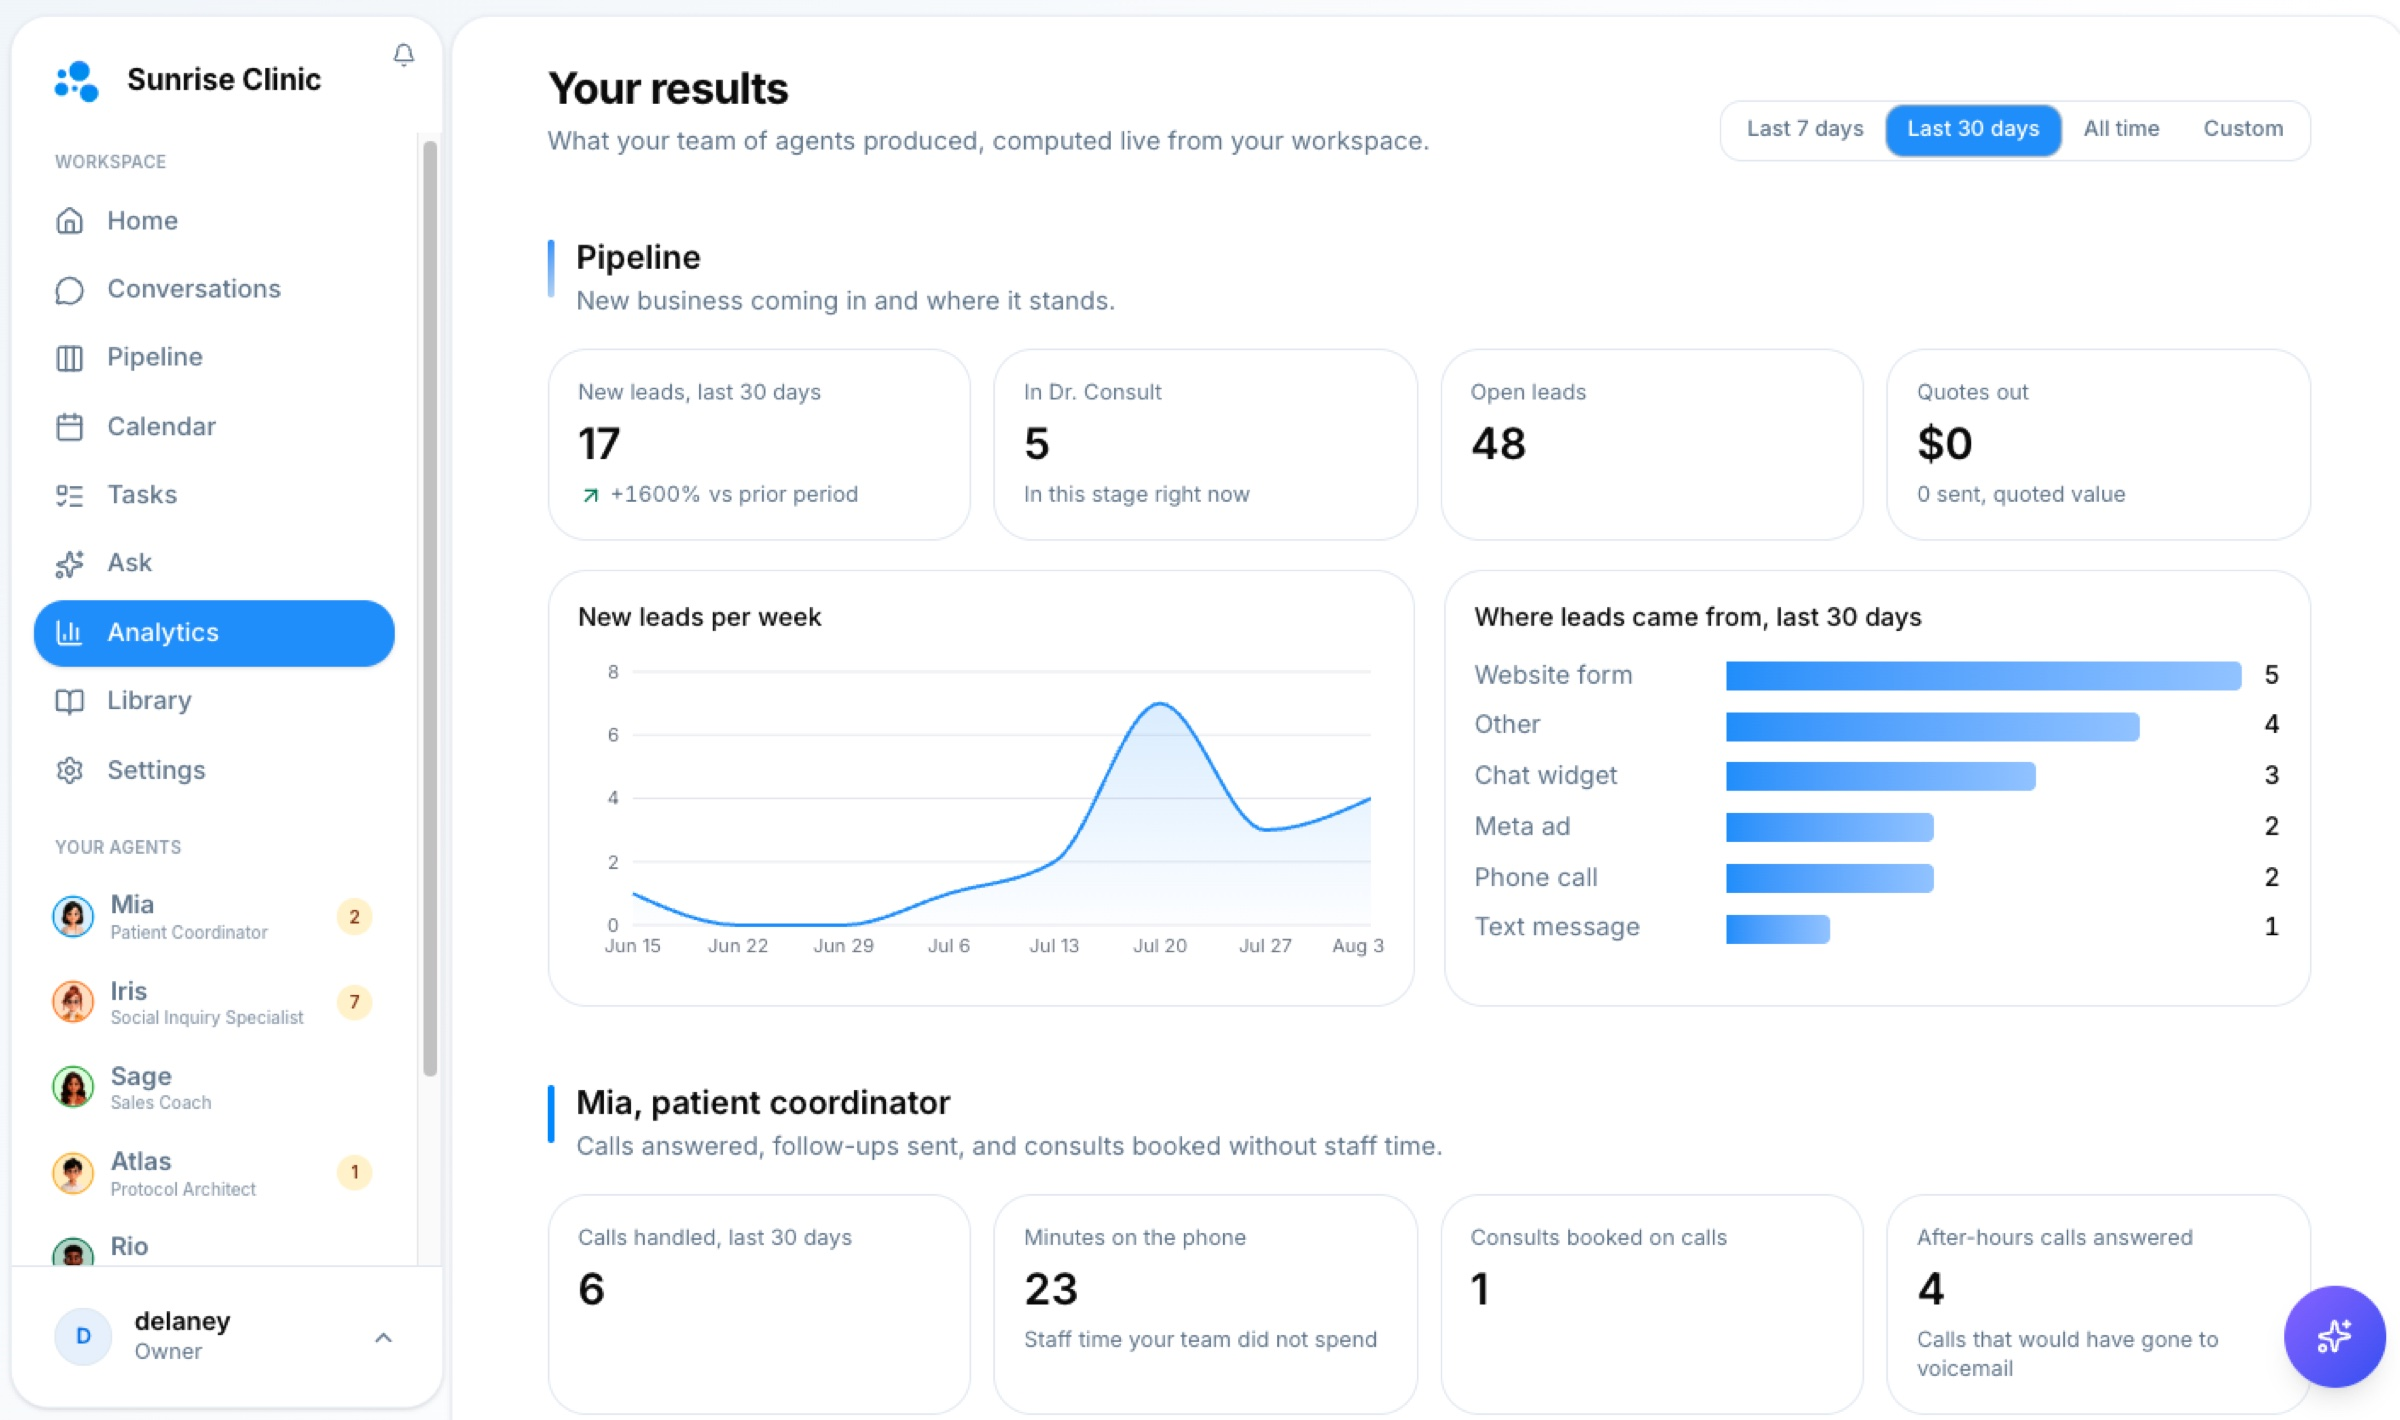
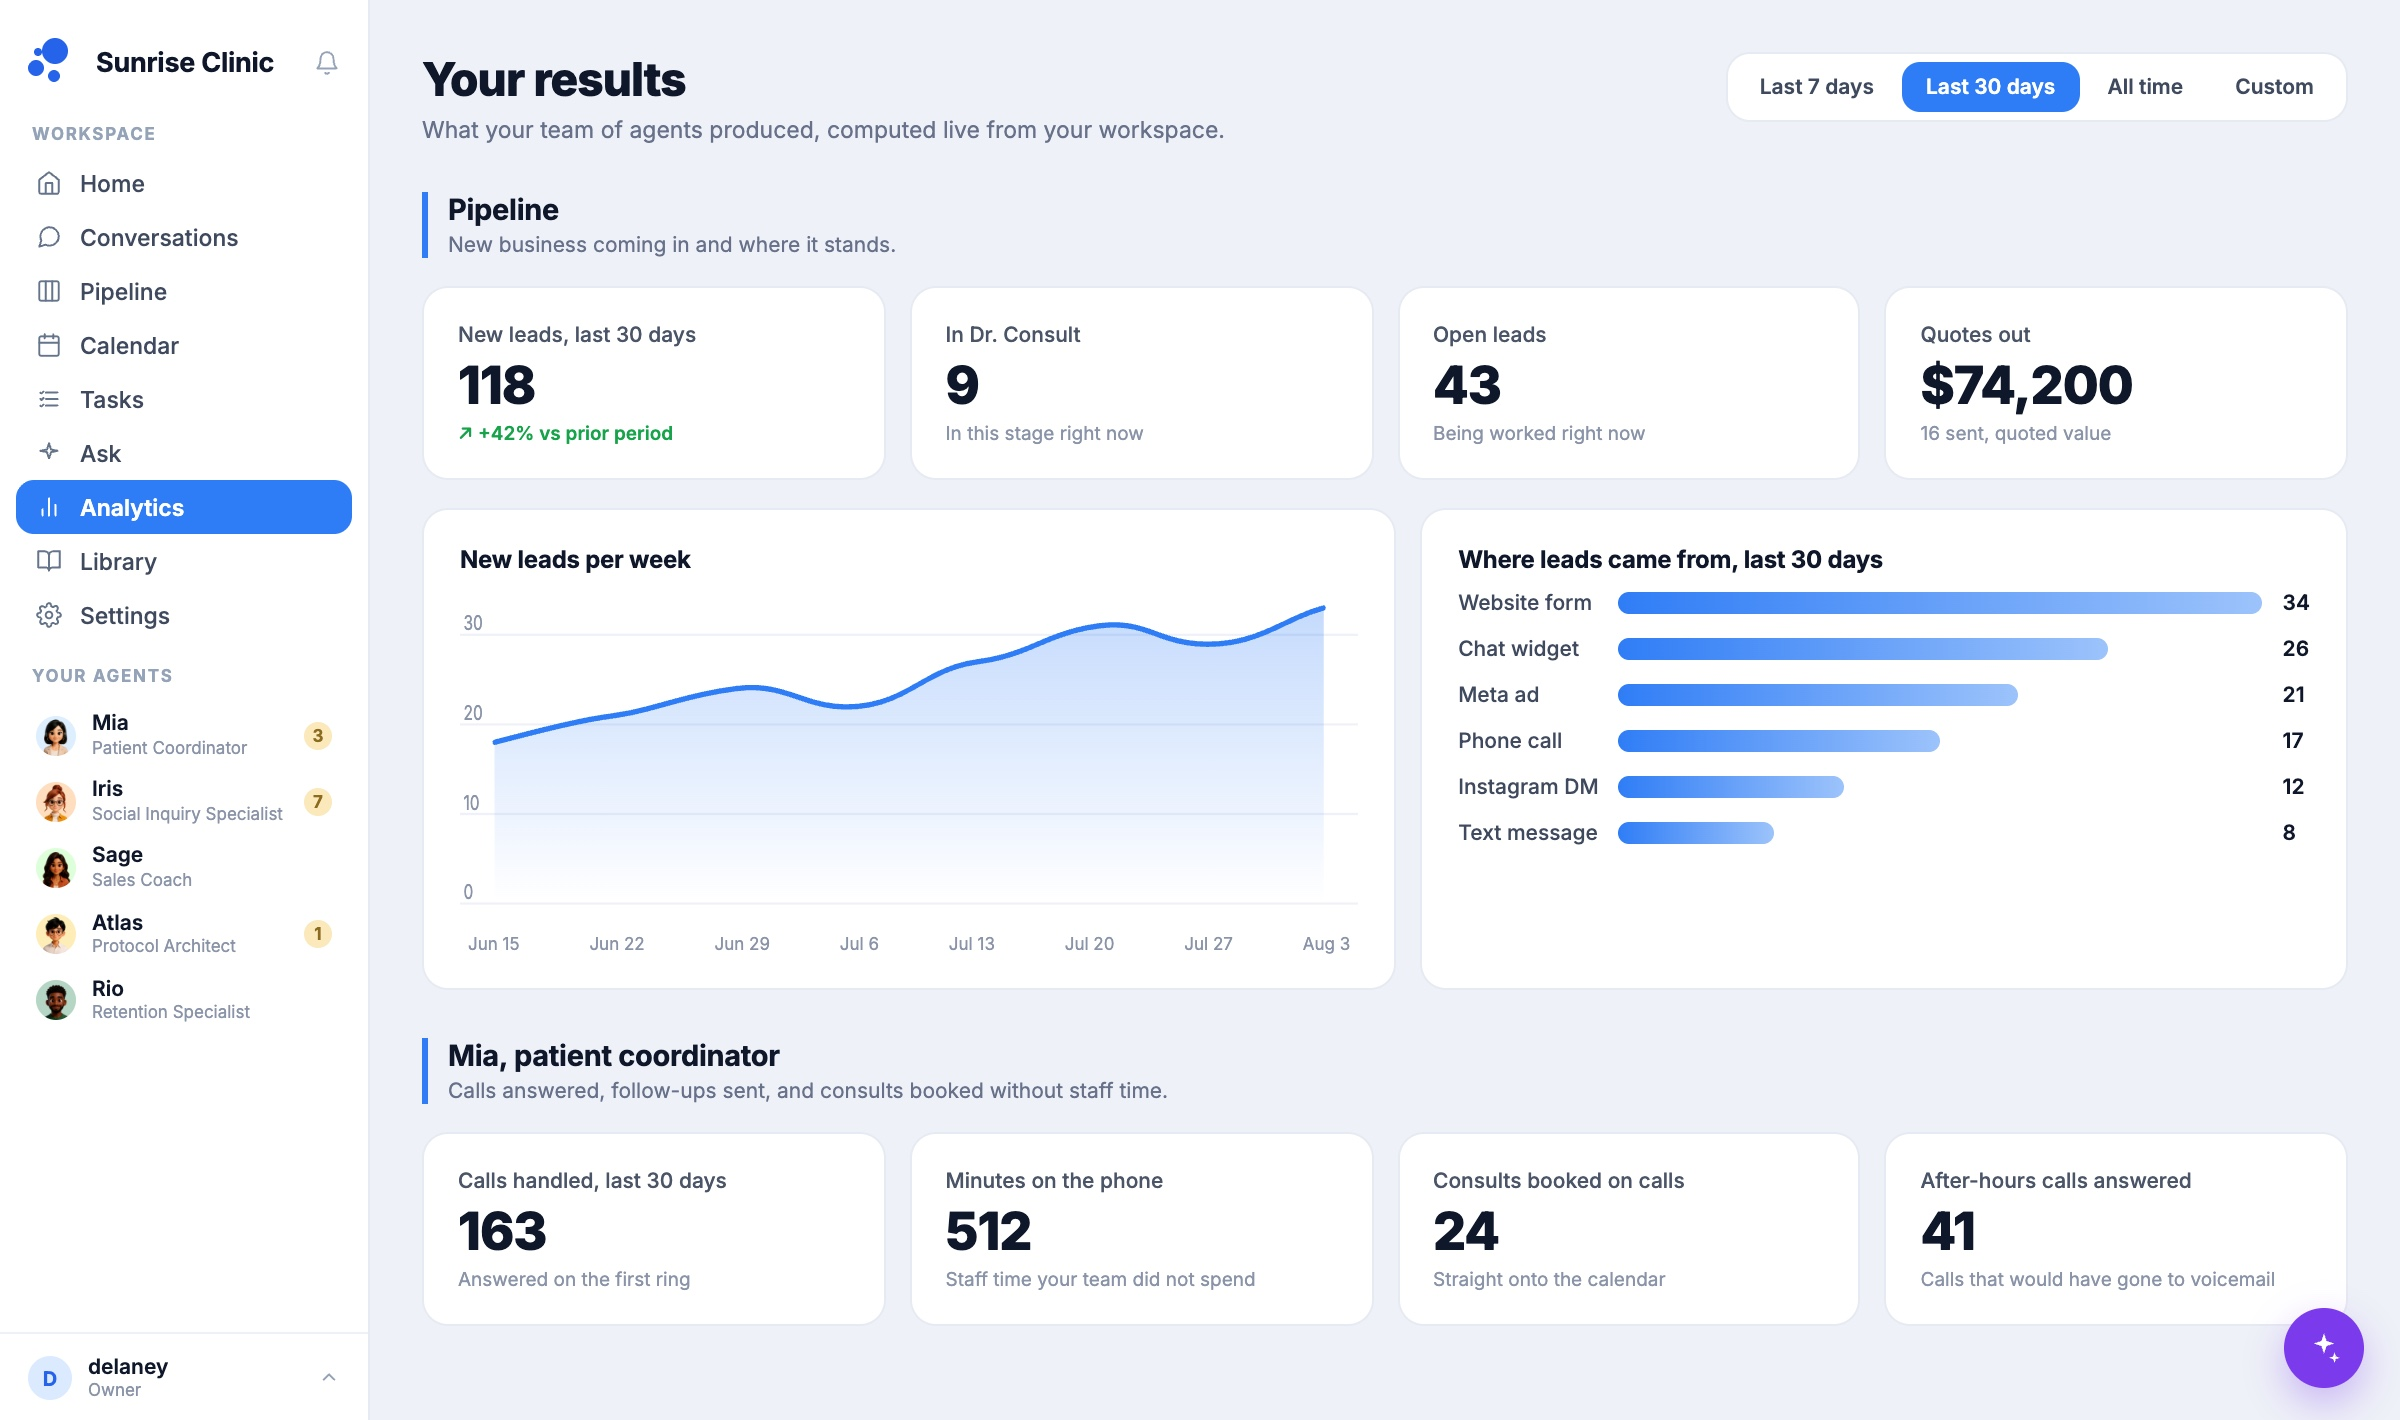
Hide nav while reading; refresh platform screenshot with a healthy month
The sticky header now slides away on scroll-down and returns only near
the top or after a deliberate ~300px upward scroll, so small scroll
jitters no longer pop it over the content (cofounder feedback).

product-analytics.jpg re-rendered with believable demo numbers: 118 new
leads (+42%), $74,200 quoted across 16 quotes, 163 calls handled, 24
consults booked. Lead sources sum to the headline figure and the weekly
chart averages to it, replacing the old 17-leads/$0-quotes capture.

diff --git a/components/site-nav.tsx b/components/site-nav.tsx
@@ -6,10 +6,34 @@ import { agents, CALENDAR_URL } from "@/lib/agents";
 
 export function SiteNav() {
   const [scrolled, setScrolled] = useState(false);
+  const [hidden, setHidden] = useState(false);
   const [mobileOpen, setMobileOpen] = useState(false);
 
+  // The header is sticky, but keeping it permanently floating over content
+  // made scrolling feel cramped. Instead: hide it while reading (scrolling
+  // down), and bring it back only near the top of the page or after a
+  // deliberate upward scroll, so small jitters don't pop it over the text.
   useEffect(() => {
-    const onScroll = () => setScrolled(window.scrollY > 8);
+    let lastY = window.scrollY;
+    let upTravel = 0;
+    const onScroll = () => {
+      const y = window.scrollY;
+      const delta = y - lastY;
+      lastY = y;
+      setScrolled(y > 8);
+      if (y < 120) {
+        upTravel = 0;
+        setHidden(false);
+        return;
+      }
+      if (delta > 0) {
+        upTravel = 0;
+        setHidden(true);
+      } else if (delta < 0) {
+        upTravel -= delta;
+        if (upTravel > 260) setHidden(false);
+      }
+    };
     onScroll();
     window.addEventListener("scroll", onScroll, { passive: true });
     return () => window.removeEventListener("scroll", onScroll);
@@ -28,7 +52,11 @@ export function SiteNav() {
 
   return (
     <>
-      <header className={`site-header${scrolled ? " is-scrolled" : ""}`}>
+      <header
+        className={`site-header${scrolled ? " is-scrolled" : ""}${
+          hidden && !mobileOpen ? " is-hidden" : ""
+        }`}
+      >
         <Link href="/" className="brand" onClick={close}>
           <img className="brand-logo" src="/caddie-logo.svg" alt="Caddie" />
         </Link>

diff --git a/app/globals.css b/app/globals.css
@@ -199,11 +199,12 @@ a.button { color: #fff; }
   z-index: 20; background: none;
   justify-content: space-between; align-items: center; gap: 22px;
   margin: 0 auto; padding: 14px max(24px, 50vw - 590px);
-  transition: background .28s, box-shadow .28s;
+  transition: background .28s, box-shadow .28s, transform .34s var(--ease, ease);
   display: flex; position: sticky; top: 0; left: 0; right: 0;
   font-family: var(--font-geist-sans), ui-sans-serif, system-ui, sans-serif;
   letter-spacing: -.011em;
 }
+.site-header.is-hidden { transform: translateY(-115%); pointer-events: none; }
 .site-header .brand {
   white-space: nowrap; border-radius: 999px; align-items: center; gap: 10px;
   font-weight: 700; display: inline-flex; margin: -6px -16px; padding: 6px 16px;
